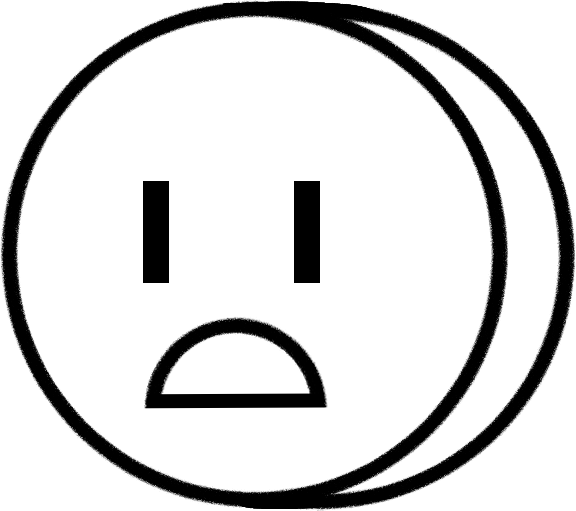
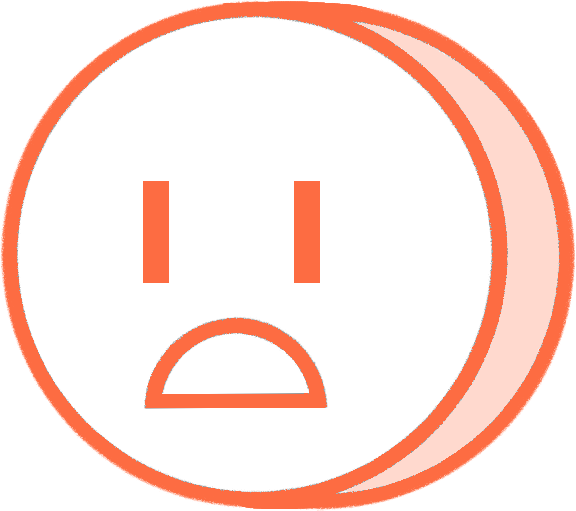
updated graphics
Added in the new graphics made by Maita

diff --git a/index.html b/index.html
@@ -48,25 +48,17 @@
 		<div class="container">
 			<div class="row justify-content-center">
 				<div class="col-auto title">
-					<h1>How are you</h1>
+					<h1>How are you?</h1>
 				</div>
 			</div>
 			<div class="row justify-content-center">
 				<div class="col-auto">
-					<a href="calmer.html">
-						<div class="card how-you">
-							<h2>Calm Me Down</h2>
-						</div>
-					</a>
+					Put mood tracking bootstrap card here
 				</div>
 			</div>
 			<div class="row justify-content-center">
 				<div class="col-auto">
-					<a href="mood.html">
-						<div class="card tracker-link">
-							<h2>Mood Tracker</h2>
-						</div>
-					</a>
+					Put calm me down bootstrap card here
 				</div>
 			</div>
 		</div>
